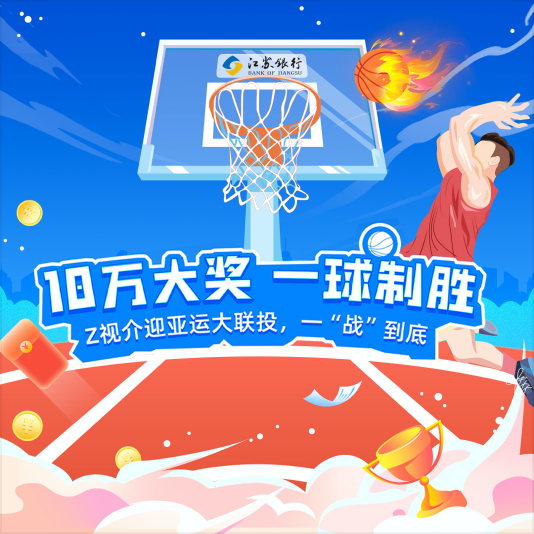
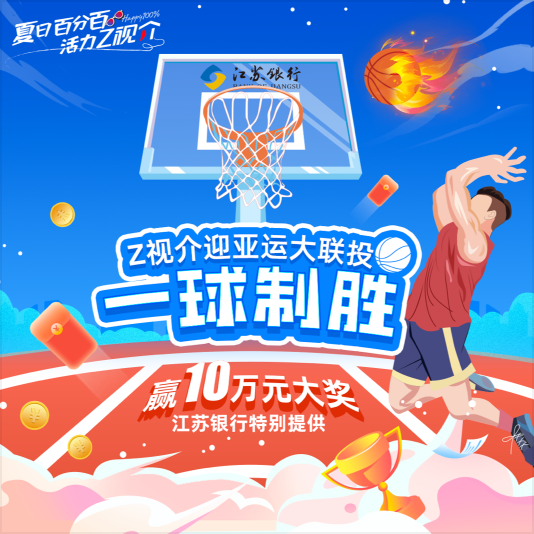
feat: 修改ui

diff --git a/src/views/sign/index.vue b/src/views/sign/index.vue
@@ -72,11 +72,8 @@ export default defineComponent({
     const resultArea = ref('');
     const showArea = ref(false);
     const groupResult = ref('');
-
     const radioList = ref<any[]>([])
     const placeColumn = ref<any[]>([])
-
-
 
     let showPop = ref<boolean>(false);
     const backPopCall = () => {
@@ -85,8 +82,6 @@ export default defineComponent({
         name: "index",
       });
     }
-
-
 
     const onConfirmArea = ({ selectedOptions }) => {
       showArea.value = false;
@@ -97,10 +92,6 @@ export default defineComponent({
       result.value = selectedValues.join('/');
       showPicker.value = false;
     };
-
-
-
-
 
     const init = async () => {
       let res = await getActiveInfo()
@@ -163,11 +154,8 @@ export default defineComponent({
           signature,
           file: file.file
         })
-
         file.status = 'done';
-
         console.log(result, 'result')
-
         videoImgUrl = 'https://o.cztvcloud.com/' + dir + randomTime + randomStr
         console.log(imgUrl, 'https://o.cztvcloud.com/350/202307/06/1688631065/1688631065000')
       }
@@ -213,7 +201,6 @@ export default defineComponent({
           file: file.file
         })
 
-
         file.status = 'done';
         videoUrl = 'https://o.cztvcloud.com/' + dir + randomTime + randomStr
         console.log(videoUrl, 'https://o.cztvcloud.com/350/202307/06/1688631065/1688631065000')
@@ -224,9 +211,8 @@ export default defineComponent({
 
     const validatorId = (val) => /^[1-9]\d{5}(19|20)\d{2}(0[1-9]|1[0-2])(0[1-9]|[12]\d|3[01])\d{3}(\d|X)$/.test(val);
 
-
     const onSubmit = throttle(async (values) => {
-      //       router.replace({
+      // router.replace({
       //   name: "index",
       // });
       // return
@@ -239,7 +225,6 @@ export default defineComponent({
         extra: values
       })
       //res.status_code 
-      console.log(res, 'rrrrrrr')
       if (res?.id) {
         radioList.value = getRadioList(res)
         sid.value = res.id + ''

diff --git a/src/views/index/index.vue b/src/views/index/index.vue
@@ -252,10 +252,10 @@ export default defineComponent({
 
   .indexBg {
     background: url(../../assets/indexback.png) no-repeat;
-    background-size: 750px 3030px;
+    background-size: 750px 5184px;
     position: absolute;
     width: 750px;
-    height: 3030px;
+    height: 5184px;
     left: 0%;
   }
 

diff --git a/src/views/sign/style/common.scss b/src/views/sign/style/common.scss
@@ -51,14 +51,13 @@ html, body {
 	width: 750px;
 	height: 1442px;
 	.form{
-		margin-top:486px;
+		margin-top:456px;
 		padding-bottom: 62px;
 		.group{
 			margin-top:40px;
 		}
 		.groupBottom{
 			margin-bottom:20px;
-
 		}
 	}
 }

diff --git a/src/components/successPop.vue b/src/components/successPop.vue
@@ -38,7 +38,6 @@ const props = defineProps<{
     radiolist: any[]
 }>()
 
-
 let showPopup = ref<boolean>(false);
 
 watch(props, (newProps) => {
